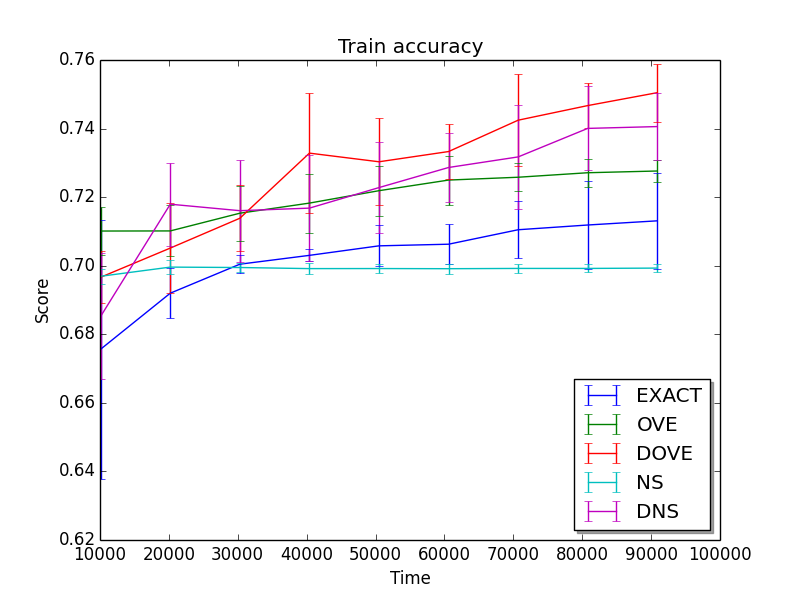
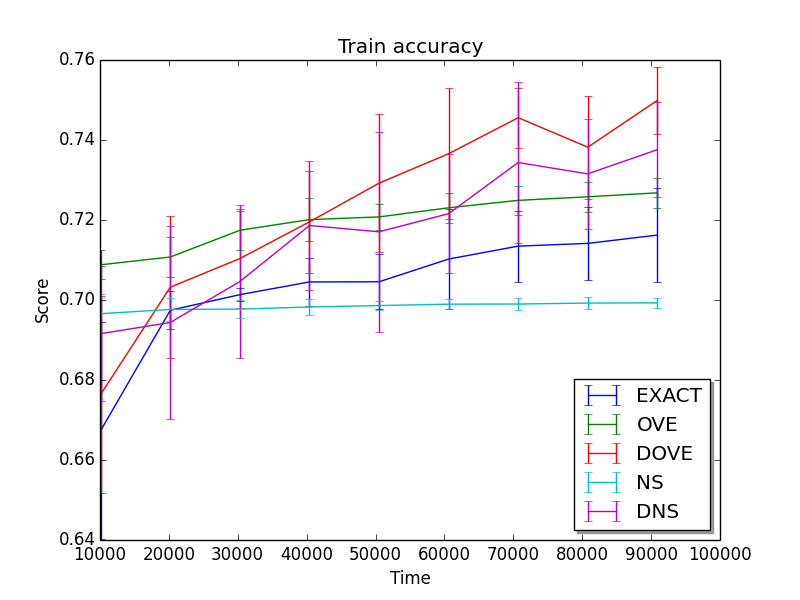
Added libsvm reading

diff --git a/run_expr.py b/run_expr.py
@@ -14,16 +14,46 @@ from sklearn import linear_model
 from unbiased_gradients import *
 import pickle
 import os
-
-
-
+from sklearn.datasets import load_svmlight_file
 
 
 def readHyperParameters():
-	data_path = "../UnbiasedSoftmaxData/Simulated/simulated_data_K_100_dim_2_n_datapoints_100000"
+
+	# # Load hyperparameters from the terminal
+	# if len(sys.argv) > 1:
+	# 	data_set = sys.argv[1]
+	# 	if data_set == 'simulated1e3':
+	# 		data_path = "../UnbiasedSoftmaxData/Simulated/simulated_data_K_1000_dim_2_n_datapoints_1000000_sigma_1"
+	# 	elif data_set == 'simulated1e2':
+	# 		data_path = "../UnbiasedSoftmaxData/Simulated/simulated_data_K_100_dim_2_n_datapoints_100000"
+	# 	elif data_set == 'Bibtex':
+	# 		data_path = "../UnbiasedSoftmaxData/LIBSVM/Bibtex_data.txt"
+	# 	elif data_set == 'aloi':
+	# 		data_path = "../UnbiasedSoftmaxData/LIBSVM/aloi"
+	# 	elif data_set == 'Delicious':
+	# 		data_path = "../UnbiasedSoftmaxData/LIBSVM/Delicious_data"
+	# 	elif data_set == 'eurlex':
+	# 		data_path = "../UnbiasedSoftmaxData/LIBSVM/eurlex_train"
+	# 	else:
+	# 		print"""
+	# 		------------------------------------
+	# 		Not a valid training set
+	# 		------------------------------------
+	# 		"""
+	# 		exit(0)
+
+	# else:
+	# 	print"""
+	# 	------------------------------------
+	# 	Please provide a training set
+	# 	------------------------------------
+	# 	"""
+	# 	exit(0)
+
+	data_path = "../UnbiasedSoftmaxData/Simulated/simulated_data_K_1000_dim_2_n_datapoints_1000000_sigma_1"
 
 	hyper_param = 0.1
-	repetitions = 10
+	repetitions = 5
 	time_total = 10**5
 	n_eval_loss = 10
 	NS_n = 5
@@ -31,29 +61,24 @@ def readHyperParameters():
 	p2_scale = 1
 
 	return [data_path , hyper_param , repetitions , time_total, n_eval_loss, NS_n, OVE_n, p2_scale]
-	# # Load hyperparameters from the terminal
- #    if len(sys.argv) > 1:
- #        data_set = sys.argv[1]
- #        max_iter = int(sys.argv[2])
- #        hyper_param = float(sys.argv[3])
- #        repetitions = int(sys.argv[4])
 
-
- #        return [train_path, test_path , max_iter , hyper_param , repetitions]
- #    else:
- #        print"""
- #        ------------------------------------
- #        Recommended defaults:
- #        max_iter = 5000
- #        hyper_param = 0.01
- #        repetitions = 1
- #        ------------------------------------
- #        """
- #        exit(0)
 
 
 	# Plot figures
+def loadLIBSVMdata(data_path):
+	train_test_split = 0.7
+	data = load_svmlight_file(data_path, multilabel=True)
+	X = data[0].toarray()
+	Y = data[1]
+	Y = [y[0] for y in Y]
+	#pdb.set_trace()
 
+	n_samples = len(Y)
+	X_train = X[:int(train_test_split*n_samples),:]
+	Y_train = Y[:int(train_test_split*n_samples)]
+	X_test = X[int(train_test_split*n_samples):,:]
+	Y_test = Y[int(train_test_split*n_samples):]
+	return X_train , Y_train , X_test , Y_test
 
 class Solver:
 
@@ -67,21 +92,25 @@ class Solver:
 
 		# Load training and test data
 		self.data_path = data_path
-		train_data = np.genfromtxt(data_path + "_train.csv", delimiter=',')
-		test_data = np.genfromtxt(data_path + "_test.csv", delimiter=',')
+		if data_path[:29] == "../UnbiasedSoftmaxData/LIBSVM":
+			self.X_train , self.Y_train , self.X_test , self.Y_test = loadLIBSVMdata(data_path)
+		else:
+			train_data = np.genfromtxt(data_path + "_train.csv", delimiter=',')
+			test_data = np.genfromtxt(data_path + "_test.csv", delimiter=',')
 
-		# Store training data
-		self.X_train = train_data[:,:-1]
-		self.Y_train = train_data[:,-1]
-		self.n_samples_train = int(train_data.shape[0])
+			# Store training data
+			self.X_train = train_data[:,:-1]
+			self.Y_train = train_data[:,-1]
 
-		# Store test data
-		self.X_test = test_data[:,:-1]
-		self.Y_test = test_data[:,-1]
-		self.n_samples_test = int(test_data.shape[0])
+			# Store test data
+			self.X_test = test_data[:,:-1]
+			self.Y_test = test_data[:,-1]
+
+		self.n_samples_train = len(self.Y_train)
+		self.n_samples_test = len(self.Y_test)
 
 		# Set parameter values using training data
-		self.dim = int(train_data.shape[1]-1)
+		self.dim = int(len(self.X_train[0]))
 		self.K = int(max(self.Y_train)+1)
 		# self.q = np.array([1.0/self.K]*self.K)
 
@@ -89,6 +118,7 @@ class Solver:
 		self.NS_n = NS_n
 		self.OVE_n = OVE_n
 		self.p2_scale = p2_scale
+		self.start_indices = randint(0,self.n_samples_train,repetitions)
 
 
 		self.parameter_save_name = "_hyper_%d_rep_%d_time_%d_n_eval_loss_%d_NS_n_%d_OVE_n_%d_p2_scale_%d_"%(hyper_param,repetitions,time_total,n_eval_loss,NS_n,OVE_n,p2_scale)+data_path[data_path.rfind("/")+1:]
@@ -96,12 +126,13 @@ class Solver:
 		# store results of running methods
 		self.method_test_scores = {}
 		self.method_train_scores = {}
+		#pdb.set_trace()
 
 	def test_score(self,W):
-		return np.mean(np.argmax(W.dot(self.X_test.T),axis=0)==self.Y_test)
+		return np.mean(np.argmax(W.dot(self.X_test[::10,:].T),axis=0)==self.Y_test[::10])#
 
 	def train_score(self,W):
-		return np.mean(np.argmax(W.dot(self.X_train.T),axis=0)==self.Y_train)
+		return np.mean(np.argmax(W.dot(self.X_train[::10,:].T),axis=0)==self.Y_train[::10])
 		
 	def scikit_learn(self):
 		logreg = linear_model.LogisticRegression(C=1e5,solver ='newton-cg',multi_class='multinomial',fit_intercept=False)
@@ -131,19 +162,18 @@ class Solver:
 			prev_time = 0
 			test_scores_cum_work = []
 			train_scores_cum_work = []
-			iteration = 0
+			iteration = self.start_indices[rep]
 			while time < self.time_total:
-				data_index = randint(0,self.n_samples_train-1)
+				data_index = iteration % self.n_samples_train #data_index = randint(0,self.n_samples_train) this would have more variance in the results, therefore don't use
 				grad_indices , grad , work = gradient_calculator.calculate_gradient(self.X_train[data_index],self.Y_train[data_index],W)
+				#pdb.set_trace()
 				W[grad_indices] += self.hyper_param*np.outer(grad,self.X_train[data_index])*(0.9*(self.time_total-time)/float(self.time_total) +0.1)
 				time += work
 				iteration += 1
 				if (time > (prev_time + float(self.time_total) / self.n_eval_loss)):
 					prev_time = time
-					#print self.tester.test(W)
-					#self.param_history.append(numpy.array(params))
 					test_scores_cum_work.append([self.test_score(W) , time])
-					train_scores_cum_work.append([self.train_score(W) , time])
+					#train_scores_cum_work.append([self.train_score(W) , time])
 			self.method_test_scores[method].append(test_scores_cum_work)
 			self.method_train_scores[method].append(train_scores_cum_work)
 
@@ -162,6 +192,7 @@ class Solver:
 			method_scores = self.method_train_scores
 		else:
 			print("Select 'Test' or 'Train' to plot results.")
+			return
 
 		if 'EXACT' not in method_scores.keys():
 			print("Exact method was not run so cannot plot")
@@ -189,11 +220,6 @@ class Solver:
 		plt.savefig(plot_save_name)
 		plt.show()
 
-		for method , rep_scores_cum_work in method_scores.iteritems():
-			final_scores = [ scores_cum_work[-1][0] for scores_cum_work in rep_scores_cum_work]
-			print "Mean final score %.2f with std %.2f" %(np.mean(final_scores) , np.std(final_scores))
-
-
 
 if __name__ == "__main__":
 	np.random.seed(1)
@@ -203,11 +229,11 @@ if __name__ == "__main__":
 
 	# Create trainer class to run the Trains in
 	solver = Solver(data_path , hyper_param, repetitions , time_total, n_eval_loss, NS_n, OVE_n, p2_scale)
-	for method in ['EXACT','DNS','DOVE','OVE','NS']:#'scikit_learn',
+	for method in ['EXACT','DOVE','OVE']:#'scikit_learn',,'DNS','NS'
 		solver.fit(method)
 	#solver.save_results()
 	solver.plot_results('Test')
-	solver.plot_results('Train')
+	#solver.plot_results('Train')
 
 
 

diff --git a/unbiased_gradients.py b/unbiased_gradients.py
@@ -45,7 +45,7 @@ def NS_gradient(x,y,W,n):#_star
 	# else:
 	# 	n = np.ceil(n_star) if random() < (n_star - np.floor(n_star)) else np.floor(n_star)
 	
-	indices = (int(y)+1+choice(K-1, n, replace = False) )%K 
+	indices = (int(y)+1+choice(K-1, n, replace = False) )%K #(int(y)+1+randint(K-1)+np.arange(n) )%K # Prevents sampling many random numbers like (int(y)+1+choice(K-1, n, replace = False) )%K 
 	grad 	= - sigma(W[indices,:].dot(x))
 
 	# Add y index and gradient
@@ -59,7 +59,7 @@ def OVE_gradient(x,y,W,n):
 	K = W.shape[0]
 
 	# Sample indices and calculate gradient
-	indices = (int(y)+1+choice(K-1, n, replace = False) )%K 
+	indices = (int(y)+1+choice(K-1, n, replace = False) )%K #(int(y)+1+randint(K-1)+np.arange(n) )%K # Prevents sampling many random numbers like (int(y)+1+choice(K-1, n, replace = False) )%K 
 	grad 	= - sigma( W[indices,:].dot(x) - W[y,:].dot(x) ) / n #* (K-1)
 
 	# Add y index and gradient
@@ -161,7 +161,7 @@ class DOVE(gradient):
 	def __init__(self, n, K, p2_scale):
 		self.n = n
 		self.K = K
-		self.p2 = p2_scale*sqrt(float(n)/K)
+		self.p2 = p2_scale*(float(n)/K)**(1.0/4)#0.5#p2_scale*sqrt(float(n)/K)
 
 	def calculate_gradient(self, x,y,W):
 		if random() > self.p2 :

diff --git a/simulate_MNL_data.py b/simulate_MNL_data.py
@@ -5,14 +5,14 @@ from numpy.random import randn, choice
 
 np.random.seed(1)
 # General Hyperparameters
-K = 10**2													# Number of classes
+K = 10**3													# Number of classes
 dim = 2													# Dimension
-n_datapoints = 10**5										# Number of datapoints
+n_datapoints = 10**6										# Number of datapoints
 train_test_split = 0.7									# Fraction that is training data
 print_or_save = "save"#"print"									# Whether to print or save the data
 
 # Simulate data
-sigma = 1
+sigma = 10
 W = randn(K,dim)*sigma										# True W value
 X = randn(n_datapoints,dim)								# Covariates, one for each datapoint
 Y = np.zeros((n_datapoints,1))

diff --git a/libsvm2csv.py b/libsvm2csv.py
@@ -1,0 +1,12 @@
+# Put libsvm data files into csv format
+from sklearn.datasets import load_svmlight_file
+import os
+import pdb
+
+data_path = "../UnbiasedSoftmaxData/ALOI/aloi"
+def get_data():
+    data = load_svmlight_file(data_path)
+    return data[0], data[1]
+
+X, y = get_data()
+pdb.set_trace()
